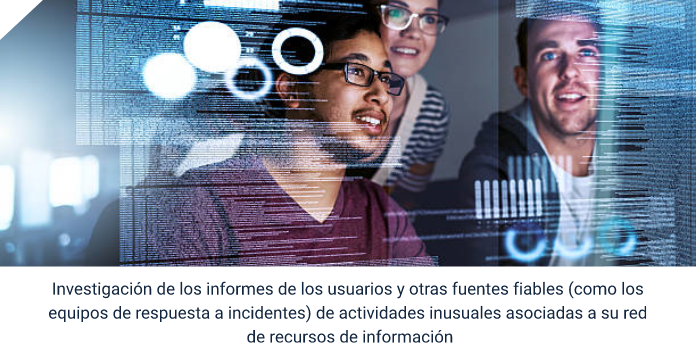
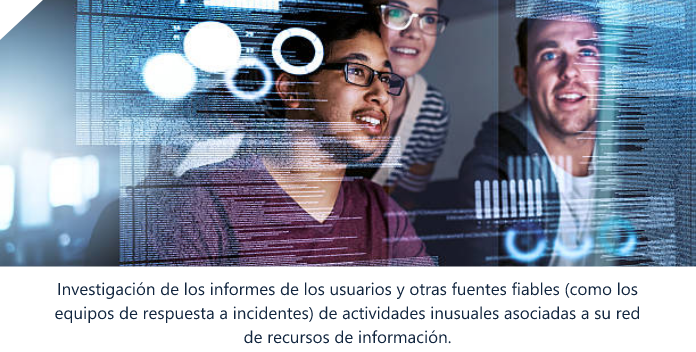
Ajustes

Changed region(s): [[0.0603, 0.7812, 0.9353, 0.8438], [0.0603, 0.875, 0.9353, 0.9062], [0.3319, 0.9375, 0.6638, 1.0]]

diff --git a/src/views/Tema2.vue b/src/views/Tema2.vue
@@ -63,13 +63,13 @@
       .col-lg-8
         div.mb-4
           img.me-1(style="width: 12px; height:11px; display:inline" src="@/assets/curso/tema1/img38.svg")  
-          p.mb-0(style="display:inline") <b>Ataques de desbordamiento de búfer:</b> el ataque <em>DoS</em> más común. El concepto es enviar más tráfico a una dirección de red de lo que los programadores han construido el sistema para manejar. Incluye los ataques que se enumeran a continuación, además de otros que están diseñados para explotar errores específicos de ciertas aplicaciones o redes
+          p.mb-0(style="display:inline") <b>Ataques de desbordamiento de búfer:</b> el ataque <em>DoS</em> más común. El concepto es enviar más tráfico a una dirección de red de lo que los programadores han construido el sistema para manejar. Incluye los ataques que se enumeran a continuación, además de otros que están diseñados para explotar errores específicos de ciertas aplicaciones o redes.
         div.mb-4
           img.me-1(style="width: 12px; height:11px; display:inline" src="@/assets/curso/tema1/img38.svg")  
           p.mb-0(style="display:inline") <b>Inundación de <em>ICMP</em>:</b> aprovecha los dispositivos de red mal configurados, enviando paquetes falsos que hacen ping a todos los ordenadores de la red objetivo, en lugar de solo a uno en concreto. La red se activa entonces para amplificar el tráfico. Este ataque también se conoce como el ataque pitufo o ping de la muerte.
         div.mb-0
           img.me-1(style="width: 12px; height:11px; display:inline" src="@/assets/curso/tema1/img38.svg")  
-          p.mb-0(style="display:inline") <b><em>SYN</em> <em>SYN</em>:</b> envía una solicitud para conectarse a un servidor, pero nunca completa el apretón de manos. Continúa hasta que todos los puertos abiertos están saturados de solicitudes y ninguno está disponible para que los usuarios legítimos se conecten.        
+          p.mb-0(style="display:inline") <b><em>SYN</em> <em>flood</em>:</b> envía una solicitud para conectarse a un servidor, pero nunca completa el apretón de manos. Continúa hasta que todos los puertos abiertos están saturados de solicitudes y ninguno está disponible para que los usuarios legítimos se conecten.        
 
     p.mb-5 Otros ataques <em>DoS</em> simplemente explotan las vulnerabilidades que causan que el sistema o servicio objetivo se caiga; en estos ataques, se envían entradas que aprovechan los errores del objetivo, que posteriormente se bloquean o desestabilizan gravemente el sistema, de modo que no se puede acceder a él o utilizarlo.
     
@@ -277,18 +277,19 @@
           h5 Figura 18.
           span Detección de <em>DDoS</em>.
         
-        .row
+        .row.mb-5.tema5.tarjetas1
           .col-lg-6.d-flex
-            div.p-0(style="background-color:#E4FDFC")
-              figure.mb-0
-                img(src="@/assets/curso/tema2/img25.svg")
-              p.mb-2.mx-4 El primer paso para evitar o detener un ataque <i>DDoS</i> es saber que se está produciendo un ataque; para detectar un ataque, hay que reunir suficiente información sobre el tráfico de la red
+            .TFcontainer.p-0(style="background-color:#E4FDFC")              
+              img(src="@/assets/curso/tema2/img25.svg")
+              .TFoverlay.p-3.pt-2
+                p.mb-2.mx-4 El primer paso para evitar o detener un ataque <i>DDoS</i> es saber que se está produciendo un ataque; para detectar un ataque, hay que reunir suficiente información sobre el tráfico de la red
           .col-lg-6.d-flex
-            div.p-0(style="background-color:#E4FDFC")
-              figure.mb-0(style="background-color:#E4FDFC")
-                img(src="@/assets/curso/tema2/img26.svg")
-              p.mb-2.mx-4 Realizar un análisis para averiguar si el tráfico es amigo o enemigo; este proceso puede realizarse manualmente o de forma automatizada. La detección de <i>DDoS</i> es la clave para detener o mitigar rápidamente los ataques
-        
+            .TFcontainer.p-0(style="background-color:#E4FDFC")              
+              img(src="@/assets/curso/tema2/img26.svg")
+              .TFoverlay.p-3.pt-2
+                p.mb-2.mx-4 Realizar un análisis para averiguar si el tráfico es amigo o enemigo; este proceso puede realizarse manualmente o de forma automatizada. La detección de <i>DDoS</i> es la clave para detener o mitigar rápidamente los ataques
+                
+    br    
     .row.justify-content-center.mb-5
       .col-lg-2.d-flex(style="border-right: 3px solid #8F52F5")        
       .col-lg-8.d-flex.py-2
@@ -380,4 +381,44 @@ export default {
 }
 </script>
 
-<style lang="sass"></style>
+<style lang="sass">
+
+.tema5.tarjetas1
+
+  .TFcontainer
+    position: relative
+    width: 100%
+    border-radius: 10px
+    transition: .5s ease
+    height: 110%
+
+  .TFimage
+    display: block
+    //width: 100%
+    //height: 587px
+    object-fit: cover !important
+    border-radius: 6px 6px 0 0
+    border-radius: 10px
+
+  .TFoverlay
+    position: absolute
+    bottom: 0
+    left: 0
+    right: 0
+    border-radius: 10px
+    overflow: hidden
+    width: 100%
+    height: 30px
+    transition: .5s ease
+    background-color: transparent
+
+  .TFcontainer:hover
+    height: 170%
+    transition: .5s ease
+    .TFoverlay
+      height: 40%
+
+  @media screen and (max-width: 991px)
+   .TFcontainer:hover .TFoverlay
+    height: 100%
+</style>

diff --git a/src/views/Tema1.vue b/src/views/Tema1.vue
@@ -374,7 +374,7 @@
     p.mb-4 No importa cuán seguro sea un sistema, siempre hay una forma de entrar; los piratas informáticos e ingenieros sociales malintencionados se dirigen a la parte más débil de la infraestructura, la gente, que suele ser la más fácil de manipular y engañar. 
     .row.justify-content-center.align-items-center.mb-5
       .col-lg-10
-        p.mb-5 Otros métodos utilizados son las ventanas emergentes o llamados comúnmente como <em>popups</em>; engañan a los usuarios para que hagan clic en un hipervínculo que los redirige a la página <em>web</em> de un atacante, pidiéndoles que den su información personal o que descarguen <em>software</em> que podría tener virus adjuntos en el <em>backend</em>; revíselos a continuación.
+        p.mb-5 La suplantación de identidad es una de las diversas herramientas de ingeniería social que se utilizan para acceder a un sistema o red, con el fin de cometer fraude, espionaje industrial o robo de identidad. La suplantación de identidad se diferencia de otras formas de ingeniería social porque se produce en persona, en lugar de por teléfono o por correo electrónico.
         .titulo-sexto.color-acento-contenido(style="font-size: 1em;")
           h5 Figura 7.
           span El ingeniero social.
@@ -420,7 +420,7 @@
                 
             
 
-          p.mb-0 <b>Los imitadores hacen sus deberes:</b> La suplantación funciona mejor cuando el ingeniero social da una actuación convincente, completa con la jerga técnica adecuada u otra información privilegiada. Los imitadores hacen sus deberes, vienen armados con:
+          p.mb-0 <b>Los imitadores hacen sus deberes:</b> la suplantación funciona mejor cuando el ingeniero social da una actuación convincente, completa con la jerga técnica adecuada u otra información privilegiada. Los imitadores hacen sus deberes, vienen armados con:
 
     .row.justify-content-center.mb-4
       .col-lg-4
